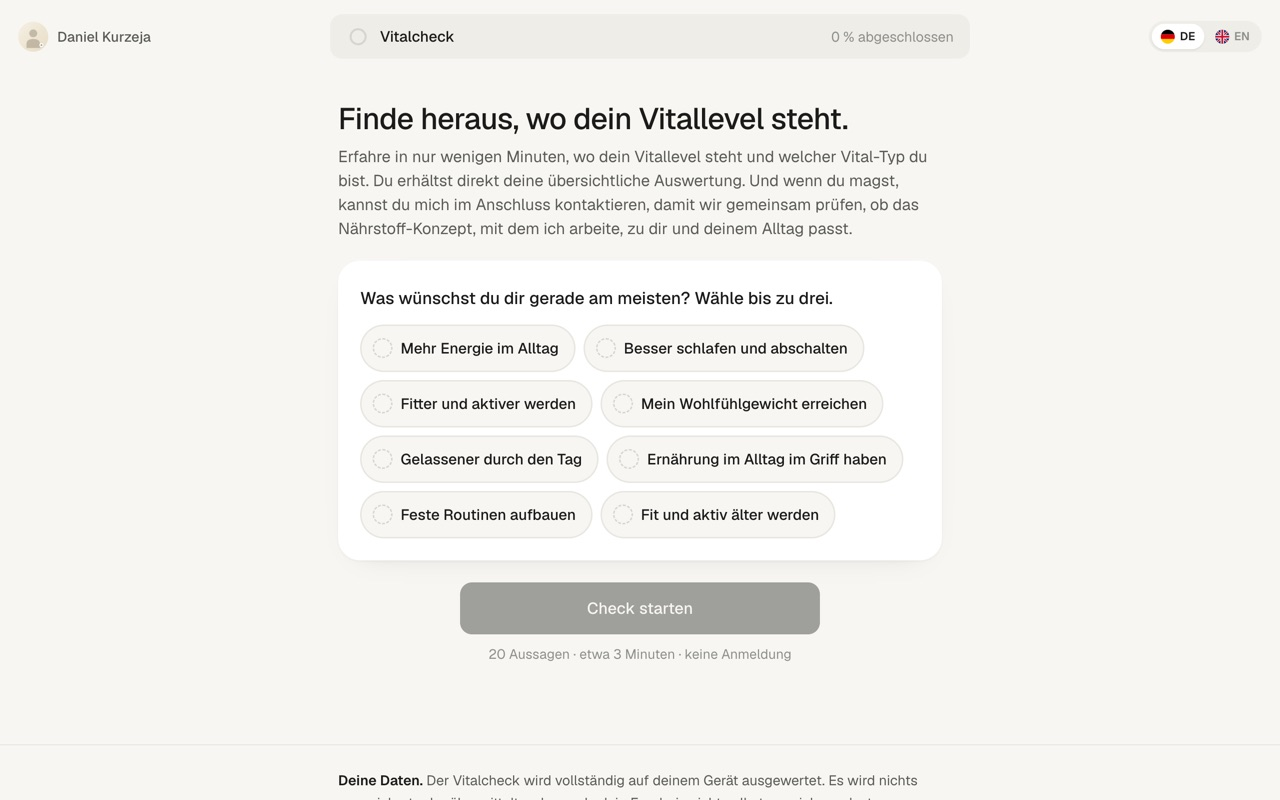
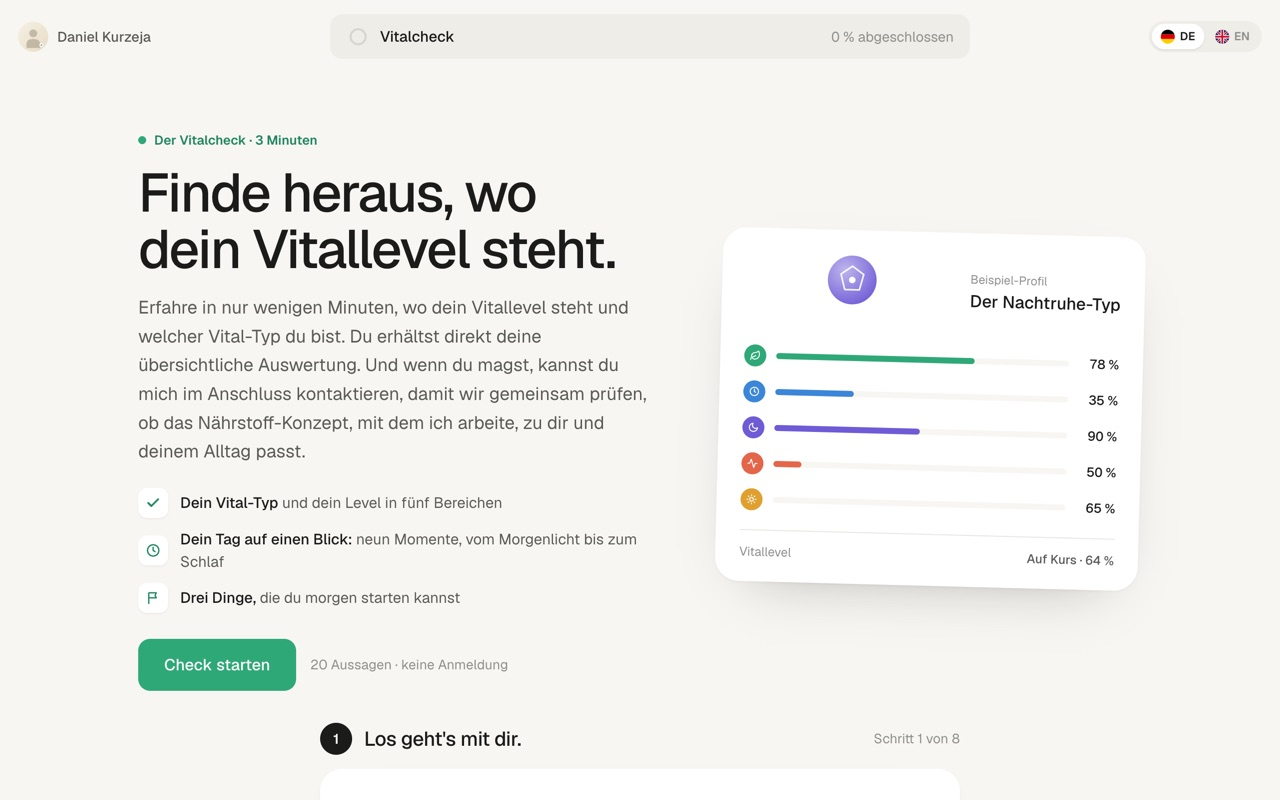
feat(vitalcheck-b): Seite 1 als Landingpage mit eingebettetem Check-Start und Beispiel-Profilkarte; Antwortskala in Akzent-Abstufungen mit wachsenden Kreisen

diff --git a/templates/vitalcheck-b/index.html b/templates/vitalcheck-b/index.html
@@ -27,6 +27,8 @@
   --ease: cubic-bezier(0.2, 0.8, 0.2, 1);
   --s0: #DF5B47; --s1: #E6963A; --s2: #9CA3A8; --s3: #4C8CE3; --s4: #2FA877;
   --s0-soft: #FCF0EE; --s1-soft: #FDF3E7; --s2-soft: #F3F4F5; --s3-soft: #EDF3FC; --s4-soft: #ECF7F1;
+  /* Antwortskala: fünf Abstufungen der Akzentfarbe, von zart bis voll */
+  --k0: color-mix(in srgb, var(--accent) 22%, var(--ink-3)); --k1: color-mix(in srgb, var(--accent) 45%, var(--ink-3)); --k2: color-mix(in srgb, var(--accent) 65%, var(--ink-3)); --k3: color-mix(in srgb, var(--accent) 85%, var(--ink-3)); --k4: var(--accent);
 }
 html[data-theme="mint"], html:not([data-theme]), html[data-theme=""] { --accent: #2FA877; --accent-dark: #22875F; --accent-soft: #E4F3EC; }
 html[data-theme="ocean"]  { --accent: #3B7DD8; --accent-dark: #2C63B0; --accent-soft: #E3EDFA; }
@@ -67,6 +69,45 @@ html[data-lang="de"] .lang [data-lang="de"], html[data-lang="en"] .lang [data-la
 
 /* Seite */
 main { flex: 1; width: 100%; max-width: var(--col); margin: 0 auto; padding: 22px 18px 80px; }
+main.wide { max-width: 1040px; }
+/* Landing (Schritt 1) */
+.hero { display: grid; grid-template-columns: 1.1fr 0.9fr; gap: clamp(28px, 5vw, 64px); align-items: center; padding: clamp(20px, 4vh, 48px) 0 clamp(28px, 4vh, 44px); }
+.hero .kick { display: inline-flex; align-items: center; gap: 8px; font-size: 13px; font-weight: 600; color: var(--accent-dark); margin-bottom: 14px; }
+html[data-theme="midnight"] .hero .kick { color: var(--accent); }
+.hero .kick i { width: 8px; height: 8px; border-radius: 50%; background: var(--accent); }
+.hero h1 { font-size: clamp(34px, 5.2vw, 54px); letter-spacing: -0.03em; line-height: 1.05; margin-bottom: 16px; text-wrap: balance; }
+.hero p { color: var(--ink-2); font-size: clamp(16px, 1.6vw, 18px); line-height: 1.6; max-width: 50ch; }
+.hero .gets { list-style: none; display: grid; gap: 10px; margin-top: 22px; }
+.hero .gets li { display: grid; grid-template-columns: 30px 1fr; gap: 12px; align-items: center; font-size: 15px; color: var(--ink-2); }
+.hero .gets li b { color: var(--ink); font-weight: 500; }
+.hero .gets li i { width: 30px; height: 30px; border-radius: 9px; background: var(--paper); display: inline-flex; align-items: center; justify-content: center; color: var(--accent-dark); box-shadow: 0 1px 2px rgba(0,0,0,0.05); }
+html[data-theme="midnight"] .hero .gets li i { color: var(--accent); }
+.hero .gets li i svg { width: 15px; height: 15px; }
+.hero .cta-row { display: flex; align-items: center; gap: 14px; flex-wrap: wrap; margin-top: 26px; }
+.hero .cta-row .note { text-align: left; }
+/* Vorschau-Karte rechts */
+.pv { background: var(--paper); border-radius: 24px; padding: 24px 24px 20px; box-shadow: 0 1px 2px rgba(0,0,0,0.04), 0 24px 60px -36px rgba(0,0,0,0.35); transform: rotate(1.5deg); }
+.pv .pv-head { display: flex; align-items: center; gap: 12px; margin-bottom: 16px; }
+.pv .pv-head svg { width: 52px; height: 52px; }
+.pv .pv-head small { display: block; font-size: 12px; color: var(--ink-3); }
+.pv .pv-head b { font-size: 17px; font-weight: 500; }
+.pv .pv-row { display: grid; grid-template-columns: 22px 1fr 40px; align-items: center; gap: 10px; padding: 7px 0; font-size: 13px; color: var(--ink-2); }
+.pv .pv-row i { width: 22px; height: 22px; border-radius: 50%; display: inline-flex; align-items: center; justify-content: center; color: #fff; }
+.pv .pv-row i svg { width: 11px; height: 11px; }
+.pv .pv-row .b { height: 6px; border-radius: 6px; background: var(--bg); overflow: hidden; }
+.pv .pv-row .b i { display: block; height: 100%; width: 0; border-radius: 6px; animation: grow 1.2s var(--ease) forwards; }
+@keyframes grow { to { width: var(--w); } }
+.pv .pv-row .n { text-align: right; font-weight: 500; color: var(--ink); }
+.pv .pv-foot { margin-top: 12px; padding-top: 12px; border-top: 1px solid var(--line); font-size: 12.5px; color: var(--ink-3); display: flex; justify-content: space-between; }
+.pv .pv-foot b { color: var(--ink-2); font-weight: 500; }
+.start { max-width: var(--col); margin: 0 auto; }
+.start .sec-head { display: flex; align-items: center; gap: 12px; margin-bottom: 14px; }
+.start .sec-head .no { width: 32px; height: 32px; border-radius: 50%; background: var(--ink); color: var(--bg); display: inline-flex; align-items: center; justify-content: center; font-size: 14px; font-weight: 600; }
+html[data-theme="midnight"] .start .sec-head .no { background: var(--accent); color: var(--on-accent); }
+.start .sec-head h2 { font-size: 20px; }
+.start .sec-head small { font-size: 13.5px; color: var(--ink-3); margin-left: auto; }
+@media (max-width: 860px) { .hero { grid-template-columns: 1fr; } .pv { transform: none; max-width: 420px; } }
+@media (max-width: 600px) { .hero { padding-top: 8px; } .pv { display: none; } }
 .step { animation: in 0.4s var(--ease) both; }
 @keyframes in { from { opacity: 0; transform: translateY(10px); } to { opacity: 1; transform: none; } }
 .pagehead { margin: 6px 0 20px; }
@@ -86,17 +127,19 @@ main { flex: 1; width: 100%; max-width: var(--col); margin: 0 auto; padding: 22p
 .opt .c { width: 50px; height: 50px; border-radius: 50%; border: 1.5px dashed; display: inline-flex; align-items: center; justify-content: center; transition: transform 0.2s var(--ease), background 0.2s, border-style 0.2s; }
 .opt .c svg { width: 20px; height: 20px; color: #fff; opacity: 0; transition: opacity 0.15s; }
 .opt:hover .c { transform: scale(1.08); }
-.opt[data-v="0"] .c { border-color: var(--s0); background: var(--s0-soft); }
-.opt[data-v="1"] .c { border-color: var(--s1); background: var(--s1-soft); }
-.opt[data-v="2"] .c { border-color: var(--s2); background: var(--s2-soft); }
-.opt[data-v="3"] .c { border-color: var(--s3); background: var(--s3-soft); }
-.opt[data-v="4"] .c { border-color: var(--s4); background: var(--s4-soft); }
-.opt.on[data-v="0"] .c { background: var(--s0); } .opt.on[data-v="1"] .c { background: var(--s1); } .opt.on[data-v="2"] .c { background: var(--s2); } .opt.on[data-v="3"] .c { background: var(--s3); } .opt.on[data-v="4"] .c { background: var(--s4); }
+.opt[data-v="0"] .c { border-color: var(--k0); background: color-mix(in srgb, var(--k0) 10%, var(--paper)); width: 40px; height: 40px; }
+.opt[data-v="1"] .c { border-color: var(--k1); background: color-mix(in srgb, var(--k1) 12%, var(--paper)); width: 44px; height: 44px; }
+.opt[data-v="2"] .c { border-color: var(--k2); background: color-mix(in srgb, var(--k2) 14%, var(--paper)); width: 48px; height: 48px; }
+.opt[data-v="3"] .c { border-color: var(--k3); background: color-mix(in srgb, var(--k3) 16%, var(--paper)); width: 52px; height: 52px; }
+.opt[data-v="4"] .c { border-color: var(--k4); background: color-mix(in srgb, var(--k4) 18%, var(--paper)); width: 56px; height: 56px; }
+.opt.on[data-v="0"] .c { background: var(--k0); } .opt.on[data-v="1"] .c { background: var(--k1); } .opt.on[data-v="2"] .c { background: var(--k2); } .opt.on[data-v="3"] .c { background: var(--k3); } .opt.on[data-v="4"] .c { background: var(--k4); }
+.opt { justify-content: flex-end; }
+.scale { align-items: end; }
 .opt.on .c { border-style: solid; transform: scale(1.06); }
 .opt.on .c svg { opacity: 1; }
 .opt small { font-size: 11.5px; line-height: 1.25; color: var(--ink-3); max-width: 84px; }
 .card:not(.labels) .opt small { display: none; }
-@media (max-width: 420px) { .opt .c { width: 44px; height: 44px; } .opt small { font-size: 10.5px; } }
+@media (max-width: 420px) { .opt[data-v="0"] .c { width: 34px; height: 34px; } .opt[data-v="1"] .c { width: 38px; height: 38px; } .opt[data-v="2"] .c { width: 42px; height: 42px; } .opt[data-v="3"] .c { width: 46px; height: 46px; } .opt[data-v="4"] .c { width: 50px; height: 50px; } .opt .c svg { width: 18px; height: 18px; } .opt small { font-size: 10.5px; } }
 
 .btnrow { margin: 22px 0 0; display: flex; flex-direction: column; align-items: center; gap: 10px; }
 .btn { display: inline-flex; align-items: center; justify-content: center; gap: 8px; min-height: 52px; padding: 0 26px; border-radius: 12px; font-weight: 500; font-size: 16px; transition: transform 0.2s var(--ease), background 0.15s, opacity 0.15s; }
@@ -561,6 +604,7 @@ var VC = (function(){
     else if (key === 'result') html = vResult();
     else if (key === 'lead') html = vLead();
     else if (key === 'done') html = vDone();
+    root.classList.toggle('wide', key === 'wishes');
     root.innerHTML = '<div class="step">' + html + '</div>';
     bind(key);
   }
@@ -568,9 +612,17 @@ var VC = (function(){
   /* ---- Views ---- */
   function chip(attr, id, label, on){ return '<button type="button" class="chip' + (on ? ' on' : '') + '" data-' + attr + '="' + id + '"><span class="chk">' + ICO.check + '</span>' + esc(label) + '</button>'; }
   function vWishes(){
-    return '<div class="pagehead"><h1>' + (en() ? 'Find out where your vitality level stands.' : 'Finde heraus, wo dein Vitallevel steht.') + '</h1><p>' + (en() ? 'In just a few minutes you will know where your vitality level stands and which type you are. You get a clear evaluation right away. And if you like, you can contact me afterwards so we can check together whether the nutrient concept I work with fits you and your everyday life.' : 'Erfahre in nur wenigen Minuten, wo dein Vitallevel steht und welcher Vital-Typ du bist. Du erhältst direkt deine übersichtliche Auswertung. Und wenn du magst, kannst du mich im Anschluss kontaktieren, damit wir gemeinsam prüfen, ob das Nährstoff-Konzept, mit dem ich arbeite, zu dir und deinem Alltag passt.') + '</p></div>' +
+    var demo = [0.78, 0.35, 0.9, 0.5, 0.65];
+    var get = function(ic, b, txt){ return '<li><i>' + ic + '</i><span><b>' + b + '</b> ' + txt + '</span></li>'; };
+    return '<div class="hero"><div><div class="kick"><i></i>' + (en() ? 'The vitality check · 3 minutes' : 'Der Vitalcheck · 3 Minuten') + '</div>' +
+      '<h1>' + (en() ? 'Find out where your vitality level stands.' : 'Finde heraus, wo dein Vitallevel steht.') + '</h1>' +
+      '<p>' + (en() ? 'In just a few minutes you will know where your vitality level stands and which type you are. You get a clear evaluation right away. And if you like, you can contact me afterwards so we can check together whether the nutrient concept I work with fits you and your everyday life.' : 'Erfahre in nur wenigen Minuten, wo dein Vitallevel steht und welcher Vital-Typ du bist. Du erhältst direkt deine übersichtliche Auswertung. Und wenn du magst, kannst du mich im Anschluss kontaktieren, damit wir gemeinsam prüfen, ob das Nährstoff-Konzept, mit dem ich arbeite, zu dir und deinem Alltag passt.') + '</p>' +
+      '<ul class="gets">' + get(ICO.check, en() ? 'Your vitality type' : 'Dein Vital-Typ', en() ? 'and your level across five areas' : 'und dein Level in fünf Bereichen') + get(ICO.clock, en() ? 'Your day at a glance:' : 'Dein Tag auf einen Blick:', en() ? 'nine moments, from morning light to sleep' : 'neun Momente, vom Morgenlicht bis zum Schlaf') + get(ICO.flag, en() ? 'Three things' : 'Drei Dinge,', en() ? 'you can start tomorrow' : 'die du morgen starten kannst') + '</ul>' +
+      '<div class="cta-row"><a href="#start" class="btn btn-accent">' + (en() ? 'Start the check' : 'Check starten') + '</a><span class="note">' + (en() ? '20 statements · no sign-up' : '20 Aussagen · keine Anmeldung') + '</span></div></div>' +
+      '<div class="pv" aria-hidden="true"><div class="pv-head">' + badgeSvg(CFG.dims[2].color) + '<div><small>' + (en() ? 'Example profile' : 'Beispiel-Profil') + '</small><b>' + (en() ? 'The Rester' : 'Der Nachtruhe-Typ') + '</b></div></div>' + CFG.dims.map(function(d, i){ return '<div class="pv-row"><i style="background:' + d.color + '">' + ICO[d.ico] + '</i><div class="b"><i style="--w:' + Math.round(demo[i]*100) + '%;background:' + d.color + ';animation-delay:' + (i*0.12) + 's"></i></div><span class="n num">' + Math.round(demo[i]*100) + ' %</span></div>'; }).join('') + '<div class="pv-foot"><span>' + (en() ? 'Vitality level' : 'Vitallevel') + '</span><b>' + (en() ? 'On track · 64 %' : 'Auf Kurs · 64 %') + '</b></div></div></div>' +
+      '<div class="start" id="start"><div class="sec-head"><span class="no">1</span><h2>' + (en() ? 'Let\'s start with you.' : 'Los geht\'s mit dir.') + '</h2><small>' + (en() ? 'Step 1 of 8' : 'Schritt 1 von 8') + '</small></div>' +
       '<div class="card left"><p>' + (en() ? 'What would you like most right now? Pick up to three.' : 'Was wünschst du dir gerade am meisten? Wähle bis zu drei.') + '</p><div class="chips" style="justify-content:flex-start">' + CFG.wishes.map(function(w){ return chip('wish', w.id, t(w), S.wishes.indexOf(w.id) > -1); }).join('') + '</div></div>' +
-      '<div class="btnrow"><button type="button" class="btn btn-primary btn-wide" data-next ' + (S.wishes.length ? '' : 'disabled') + '>' + (en() ? 'Start the check' : 'Check starten') + '</button><span class="note">' + (en() ? '20 statements · about 3 minutes · no sign-up' : '20 Aussagen · etwa 3 Minuten · keine Anmeldung') + '</span></div>';
+      '<div class="btnrow"><button type="button" class="btn btn-primary btn-wide" data-next ' + (S.wishes.length ? '' : 'disabled') + '>' + (en() ? 'Continue to the statements' : 'Weiter zu den Aussagen') + '</button><span class="note">' + (en() ? 'Nothing is sent, unless you choose to at the end.' : 'Nichts wird gesendet, außer du entscheidest dich am Ende dafür.') + '</span></div></div>';
   }
   function vArea(di){
     var d = CFG.dims[di], first = -1;
